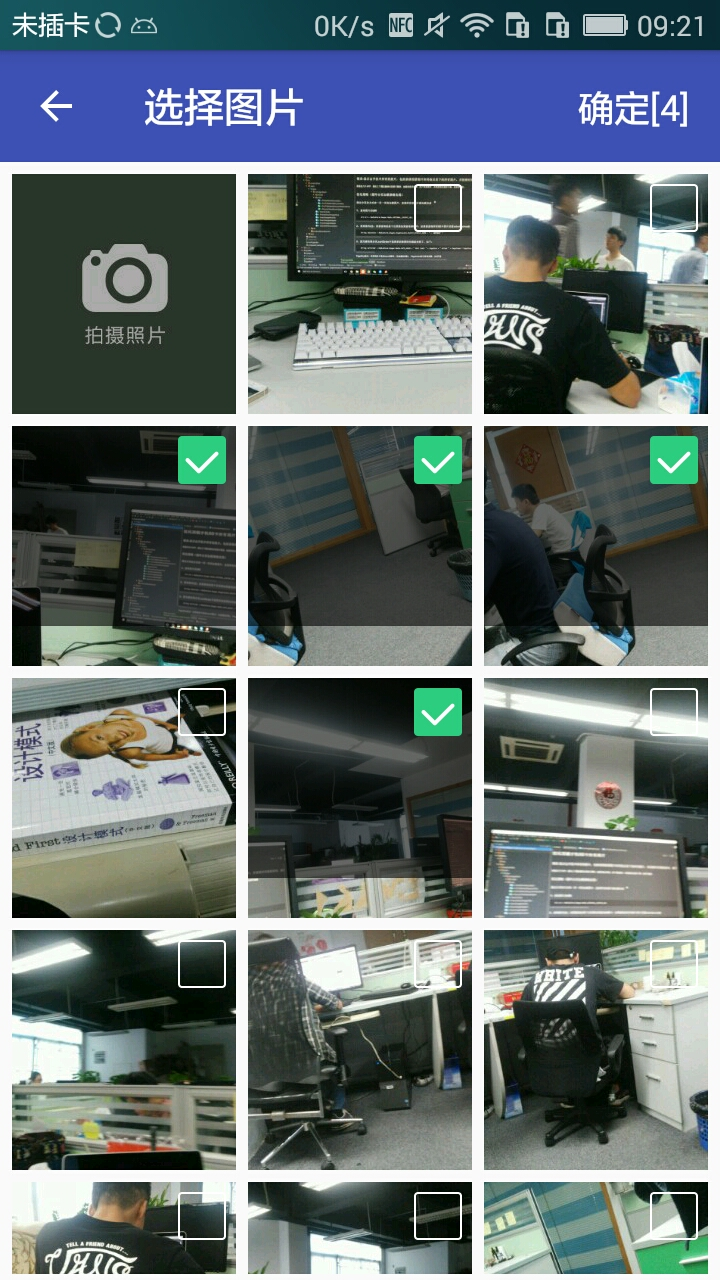
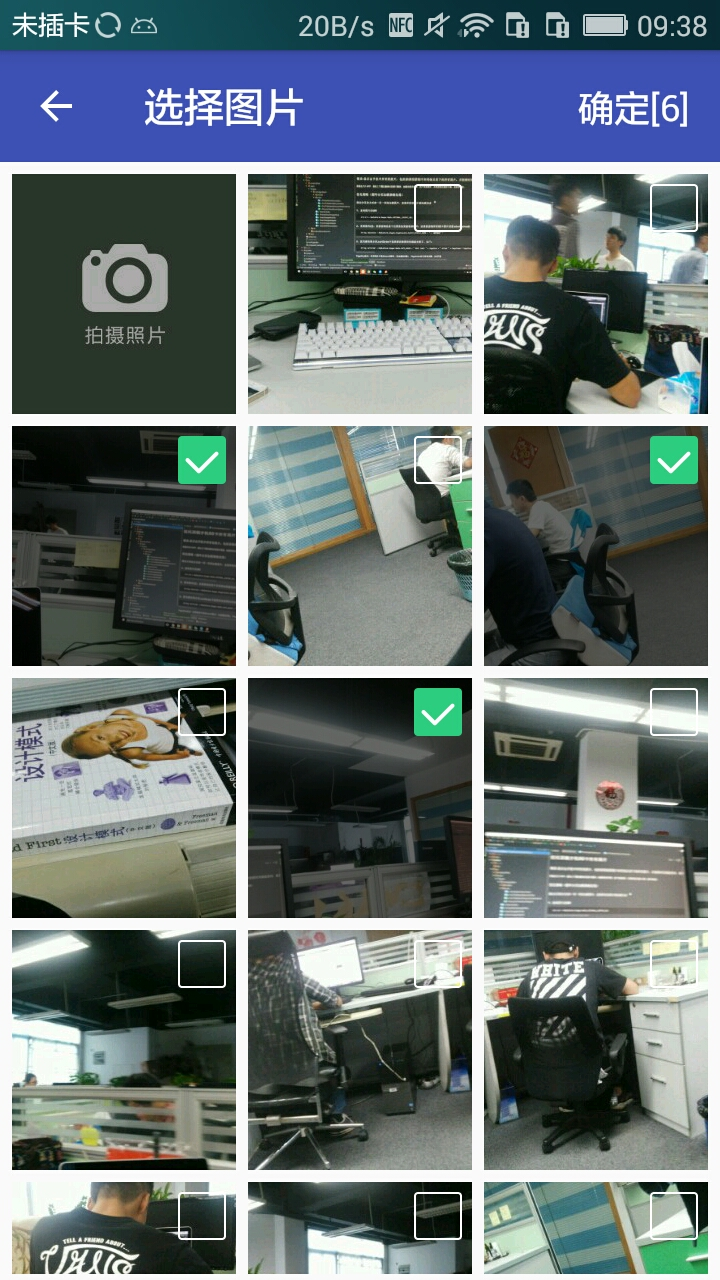
Fix 修改截图及选择图片阴影

diff --git a/album/src/main/java/com/jg/album/SelectImageAdapter.java b/album/src/main/java/com/jg/album/SelectImageAdapter.java
@@ -43,6 +43,7 @@ public class SelectImageAdapter extends RecyclerViewBaseAdapter<PictureEntity> {
         int width = getScreenW((Activity) mContent) / 3;
         RelativeLayout.LayoutParams params = new RelativeLayout.LayoutParams(width, width);
         viewHolder.imageView.setLayoutParams(params);
+        viewHolder.textView.setLayoutParams(params);
 
         viewHolder.checkBox.setOnCheckedChangeListener(null);
 
